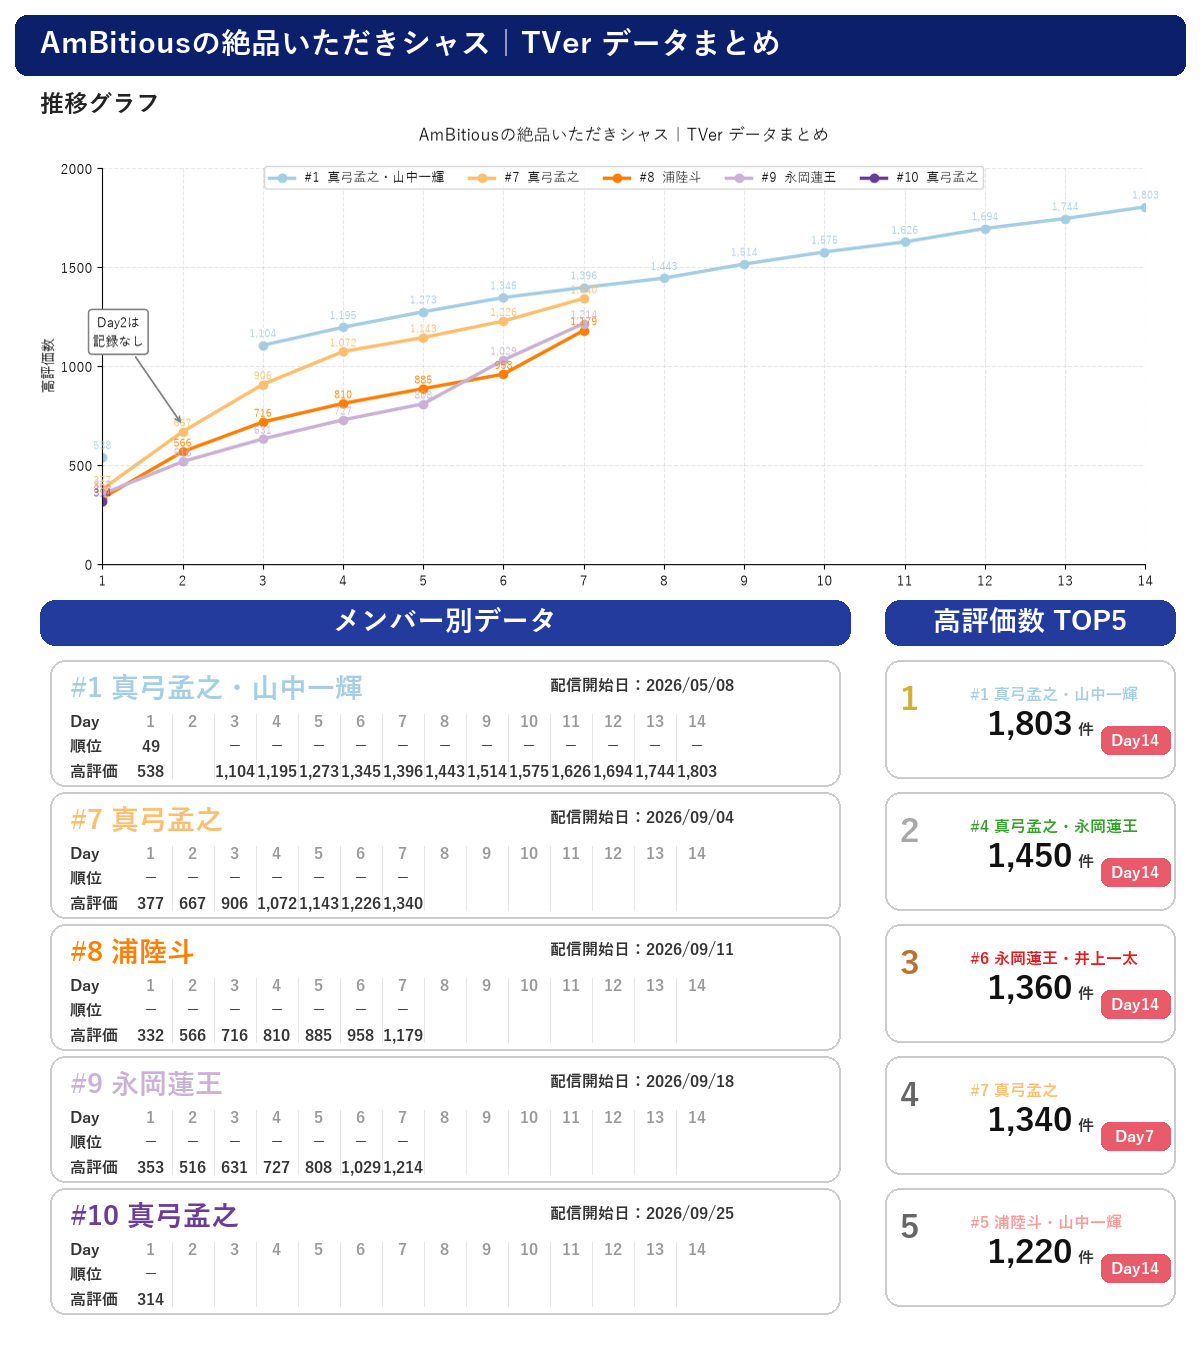
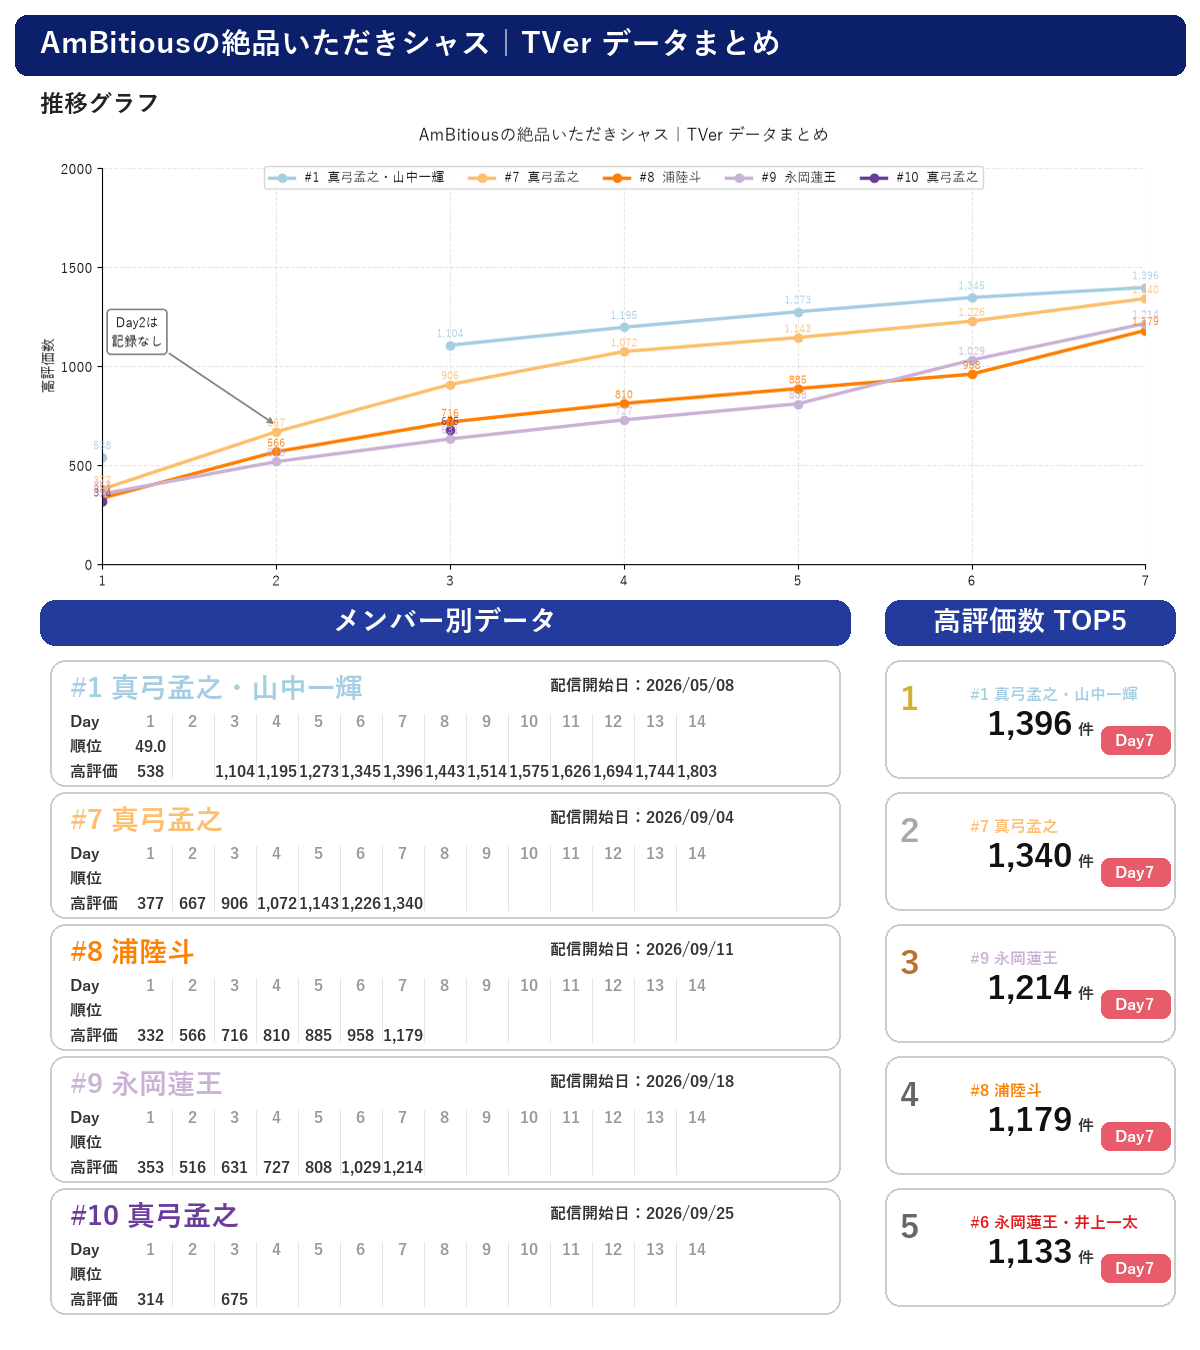
いただきシャスを7日基準に更新

diff --git a/script.js b/script.js
@@ -259,7 +259,7 @@ function createVideoCard(video, options) {
 
                             <span class="count">
                                 ${video.best_ranking === null || video.best_ranking === ""
-                                    ? "圏外"
+                                    ? "ランクインなし"
                                     : video.best_ranking + "位"
                                 }
                             </span>
